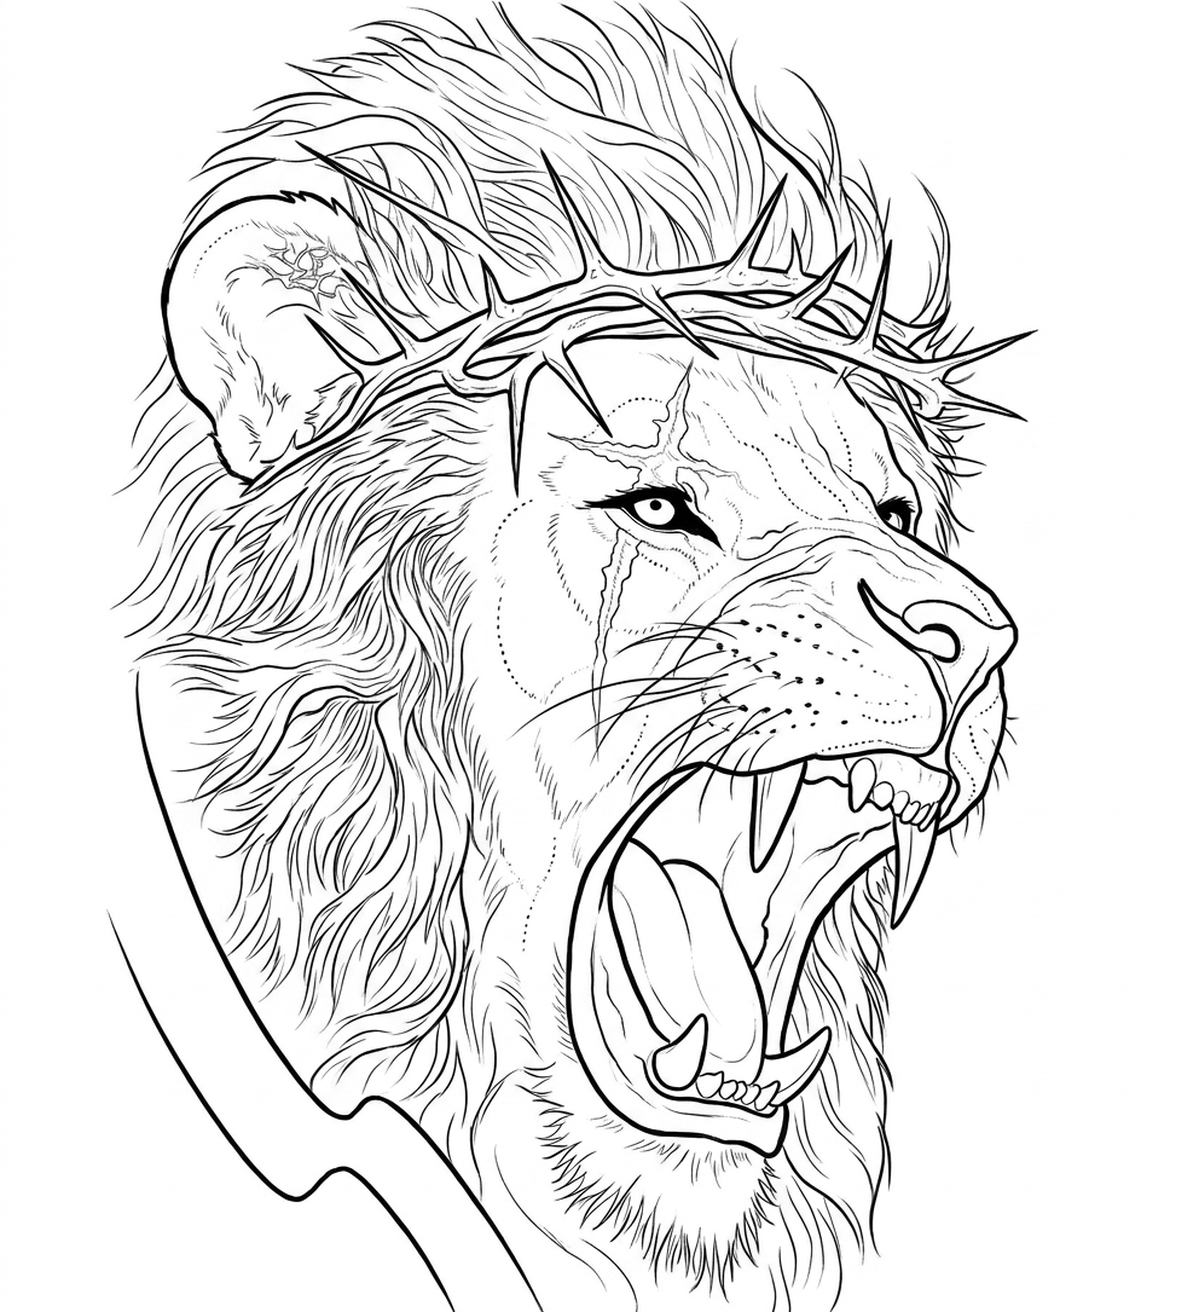
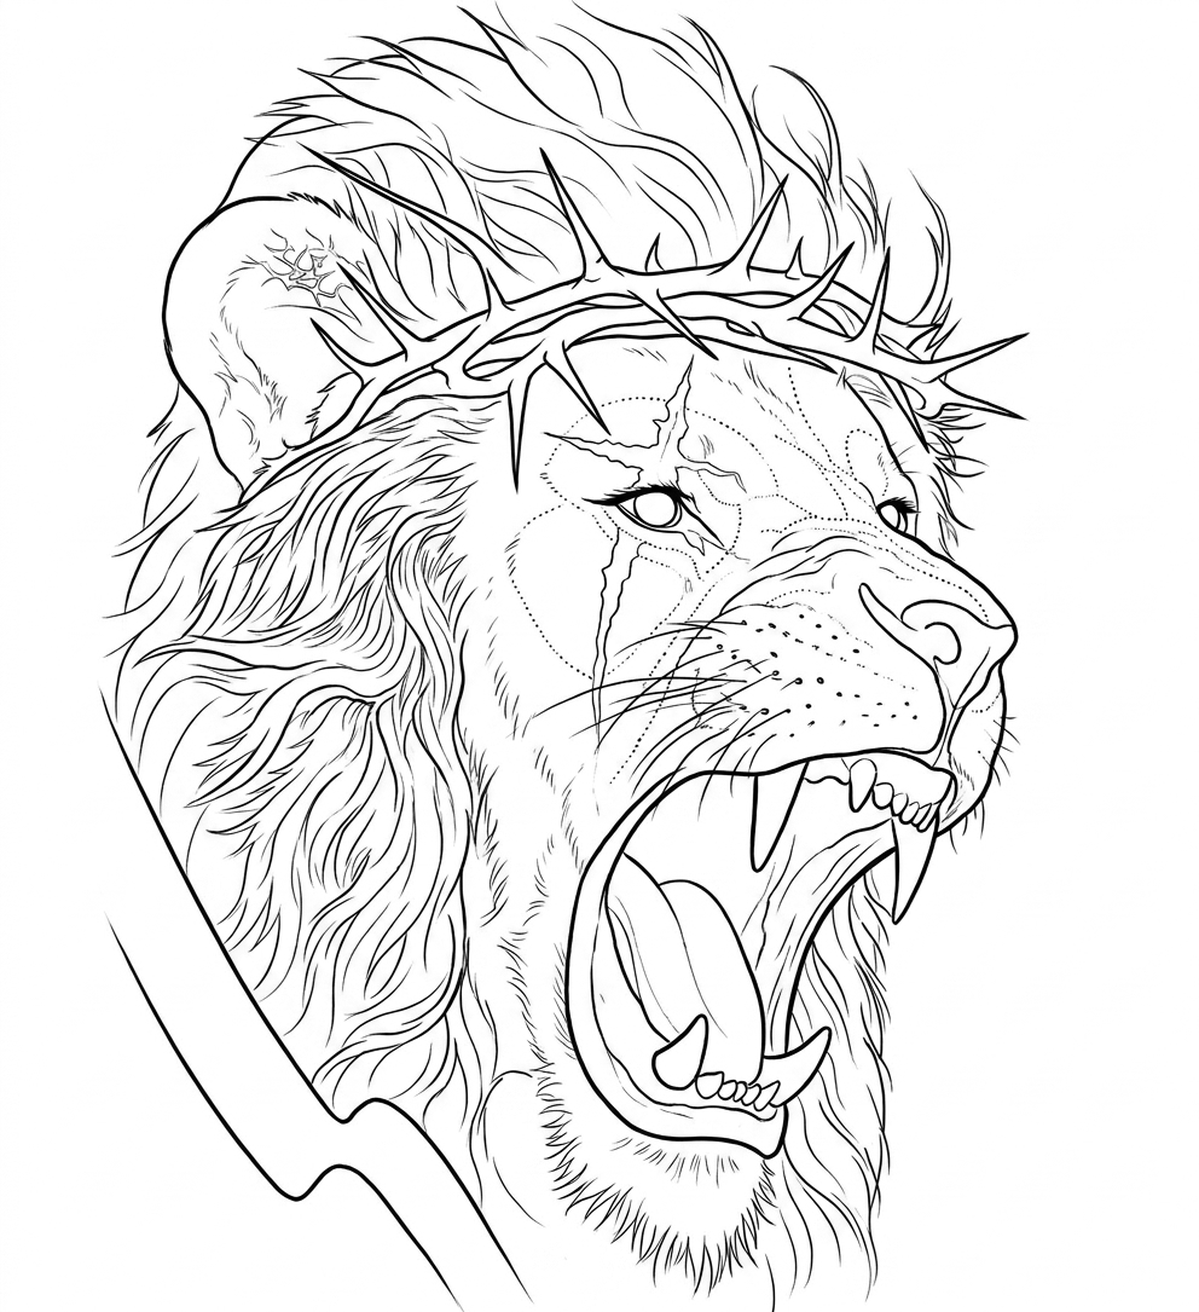
auto-commit for 808e6e17-9e75-4e9e-a9ec-4dc5069fa35f

diff --git a/backend/static/blueprint_heavy.html b/backend/static/blueprint_heavy.html
@@ -26,6 +26,7 @@ h2{color:#c9a227;font-size:18px;margin:18px 0 10px}
     <li><b>Consistency:</b> <code>temperature=0.0</code> is now the default. Same reference → consistent structure → predictable line placement.</li>
     <li><b>Post-processing:</b> Otsu thresholding removed. Grayscale line values preserved → anti-aliased edges, line-weight variation, and dotted-line integrity now match the raw AI output. Background still removed via alpha channel (transparent PNG).</li>
     <li><b>Refinement pass:</b> controlled clarity lift — subtle strand break-up (~10–15%), directional micro-lines + highlight-flow guides in hair, slightly clearer plane-change transitions on the face. No density increase, no fuzz. New marks REPLACE weak lines; they do not stack.</li>
+    <li><b>Depth refinement (targeted, ~10–15% lift in background/accessories ONLY):</b> improved layer separation in background hair/dreads/cloak/fur, subtle material indication on fabric, slightly more bone/crack/overlap detail on headdresses. Priority: <code>FOREGROUND &gt; FACE &gt; STRUCTURE &gt; BACKGROUND</code> — face untouched.</li>
     <li><b>Detail priority:</b> STRUCTURE > FLOW > TEXTURE. Readability always wins.</li>
     <li><b>Removed entirely:</b> fill logic, shading generation, structure-altering "enhancement", random black region creation.</li>
   </ul>

diff --git a/backend/server.py b/backend/server.py
@@ -1945,7 +1945,43 @@ def build_blueprint_prompt(line_color: str, detail_level: str) -> str:
             "   - The 10–20% noise reduction from the detail policy above still holds.\n"
             "   - Any new refinement mark REPLACES a weaker line — it does not stack "
             "     on top. Net mark count stays within the same budget.\n"
-            "   - If a region is already readable, add nothing."
+            "   - If a region is already readable, add nothing.\n"
+            "\n"
+            "DEPTH REFINEMENT (targeted — background & accessories only, ~10–15% lift "
+            "in those zones only, not global):\n"
+            "\n"
+            "Priority ordering — detail may only be added as priority decreases:\n"
+            "   FOREGROUND  >  FACE  >  STRUCTURE  >  BACKGROUND\n"
+            "The face is already correct. Do NOT add detail to the face. Do NOT add "
+            "detail to primary focal areas. Do NOT add density globally.\n"
+            "\n"
+            "A) Background structure (layered hair behind the subject, dreads behind "
+            "the head, cloak, fabric, fur, rope, netting):\n"
+            "   - Slightly improve strand separation so the back layers read as a "
+            "separate plane from the front layers (~10–15% lift in these zones only).\n"
+            "   - Add subtle material indication for cloak/fabric: woven direction, "
+            "fold lines, tension lines. These are directional structural marks, not "
+            "texture spray and not shading.\n"
+            "   - All added lines follow directional flow. Do NOT apply evenly across "
+            "every strand — only where the separation actually improves readability.\n"
+            "   - Do NOT add detail near the face or primary focal areas.\n"
+            "\n"
+            "B) Headdress / accessory micro-structure (crowns, antlers, bone, jewelry, "
+            "adornments):\n"
+            "   - Slightly increase fine detail in bone texture, small cracks, overlap "
+            "edges between elements, and the seams where two pieces meet.\n"
+            "   - Maintain silhouette clarity — primary contours still read as the "
+            "strongest line in the image. Do NOT stack lines so tightly that they "
+            "merge at print size.\n"
+            "\n"
+            "C) Hard constraints on this refinement:\n"
+            "   - No global detail increase.\n"
+            "   - No change to line-weight hierarchy. Primary stays primary; the added "
+            "background/accessory marks sit at Tertiary (or Dotted where appropriate).\n"
+            "   - No random texture, no fuzz, no noise. Every added mark describes "
+            "actual structure the reference shows.\n"
+            "   - Any added mark must improve SEPARATION between layers, not density "
+            "within a single layer."
         ),
     }
     detail_text = detail_blocks.get(detail_level, detail_blocks["moderate"])
